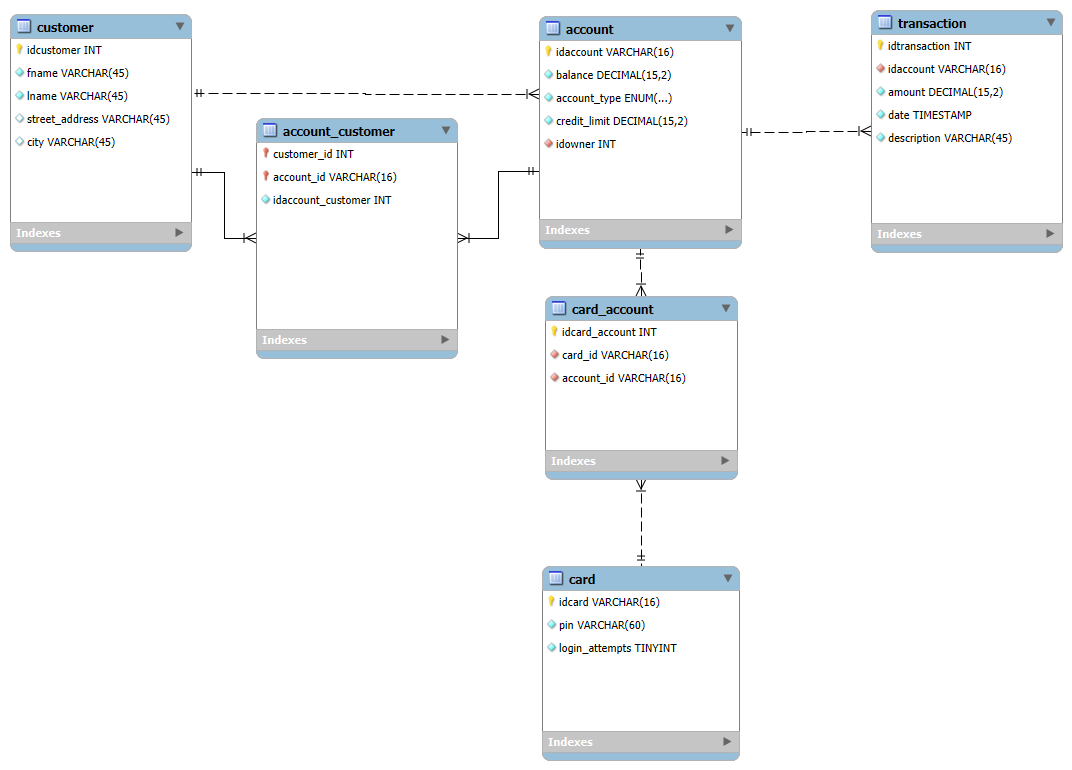
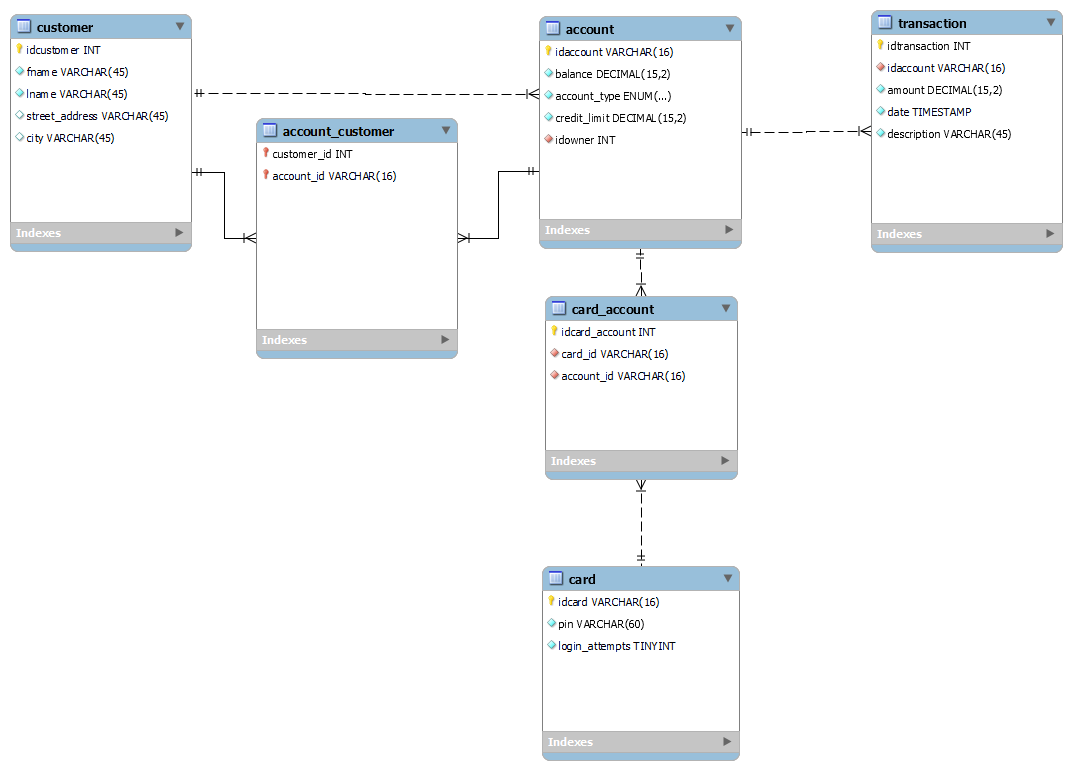
Readme päivitetty

diff --git a/README.md b/README.md
@@ -1,1 +1,35 @@
-# Group 11 Project
+# Group 11 ATM project
+
+This project is a working ATM machine system, made to resemble mostly how real-life ATM machines work. It uses a QT C++ Application as the frontend, express.js as the backend and MySQL server as the database. 
+
+# Features
+- Logging in using a card's number and pin code
+- Viewing an account's balance
+- Withdrawing or depositing money
+- Viewing transaction history
+- Either debit or credit only cards or combination cards (both debit and credit on one card)
+- Card locking when too many incorrect login attempts are made
+- Automatically logging out after 30 seconds of inactivity
+- Swagger documentation for all backend endpoints
+
+# Frontend application
+
+Development not started yet
+![Frontend application state diagram](images/frontend_chart.png)
+
+# Database design
+
+![ER-diagram of the database](backend/database/bank_er.png)
+
+# Usage
+
+The backend can be run on a server using Nginx as a reverse proxy or locally on your own machine.
+
+1. Clone repository.
+2. Run "npm install" in "\group_11\backend\".
+3. Install MySQL server of choice and start it.
+4. Create a database called "bank_db" and a user to access it.
+4. Create a ".env" file in "\group_11\backend\". Follow instructions in "\group_11\backend\env_example" to see which fields it needs to contain.
+5. Synchronize database model "\group_11\backend\database\bank_er.mwb" using MySQL Workbench to your MySQL server.
+6. Run "nodemon start" in "\group_11\backend\".
+7. Open the QT C++ Application to use the ATM machine.
